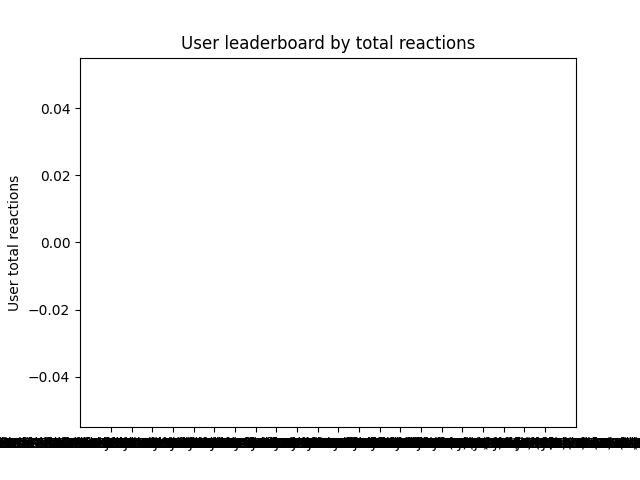
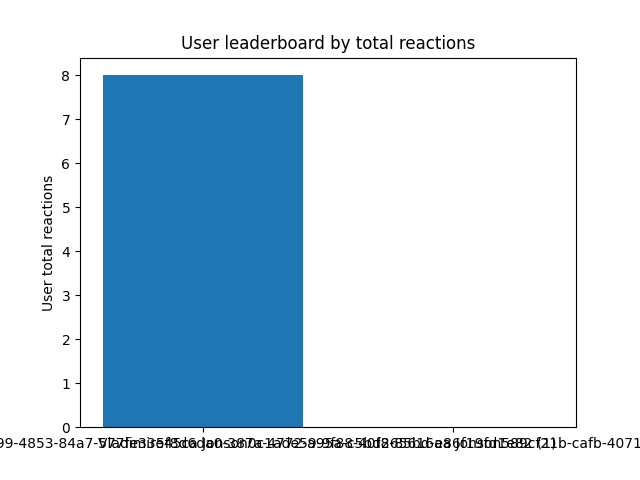
fix bugs; bind recursive deleting user reactions and user_posts with deleting user; remove html parts with "STATUS"

diff --git a/app/templates/get_user.html b/app/templates/get_user.html
@@ -20,10 +20,8 @@
             REACTION: {{ reaction.reaction }}
           </div>
         {% endfor %}
-        STATUS: {{ "none" }} <span style="color: grey"> useless. remove it in templates/get_user </span> <br>
       </div>
       <br>
     {% endfor %}
-    STATUS: {{ "none" }} <span style="color: grey"> useless. remove it in templates/get_user </span>  <br>
   </body>
 {% endblock %}

diff --git a/app/templates/get_post.html b/app/templates/get_post.html
@@ -15,7 +15,6 @@
                 REACTION: {{ reaction.reaction }}
             </div>
         {% endfor %}
-        STATUS: {{ "none" }} <span style="color: grey"> useless. remove it in templates/get_post </span> <br> <br>
         <a href="{{url_for('front_reaction_create', user_id=user.id, post_id=post.id)}}" class="btn btn-primary">Поставить реакцию</a>
 
     </body>

diff --git a/models/user.py b/models/user.py
@@ -6,6 +6,7 @@ from sqlalchemy import desc as reverse
 
 from .db import db
 from .post import Post
+from .reaction import Reaction
 
 
 class User(db.Model):
@@ -15,7 +16,6 @@ class User(db.Model):
     first_name = db.Column(db.String)
     last_name = db.Column(db.String)
     email = db.Column(db.String)
-    total_reactions = db.Column(db.Integer, default=0)
 
     def json(self):
         return {
@@ -25,6 +25,10 @@ class User(db.Model):
             "email": self.email,
             "total_reactions": self.total_reactions
         }
+    
+    @property
+    def total_reactions(self):
+        return len(Reaction.get_by_user_id(self.id))
 
     @staticmethod
     def is_valid_email(email: str) -> bool:
@@ -62,14 +66,6 @@ class User(db.Model):
         else:
             return cls.query.order_by(reverse(cls.total_reactions)).all()
 
-    def total_reactions_inc(self) -> None:
-        """
-        Increments the total number of reactions by 1 if it exists, otherwise sets it to 1.
-        """
-        if not self.total_reactions:
-            self.total_reactions = 1
-        else:
-            self.total_reactions += 1
     
     def posts(self) -> List[Post]:
         """
@@ -93,5 +89,11 @@ class User(db.Model):
         """
         Delete the current object from the database session.
         """
+        for post in self.posts():
+            post.delete()
+
+        for reaction in Reaction.get_by_user_id(self.id):
+            reaction.delete()
+
         db.session.delete(self)
         db.session.commit()

diff --git a/app/tests/test_posts.py b/app/tests/test_posts.py
@@ -9,8 +9,7 @@ def create_user_payload():
     return {
         "first_name": "Vladimir" + str(uuid4()),
         "last_name": "Jonson" + str(uuid4()),
-        "email": "test@test.ru",
-        "status": "created",
+        "email": "test@test.ru"
     }
 
 
@@ -58,4 +57,3 @@ def test_post_create():
     assert delete_user_response.json()["first_name"] == user_payload["first_name"]
     assert delete_user_response.json()["last_name"] == user_payload["last_name"]
     assert delete_user_response.json()["email"] == user_payload["email"]
-    assert delete_user_response.json()["status"] != user_payload["status"]

diff --git a/app/views.py b/app/views.py
@@ -122,15 +122,10 @@ def reaction(author_id, post_id):
     data = request.get_json()
 
     user = User.get_by_id(data["user_id"])
-    if user is None:
-        return Response(status=HTTPStatus.NOT_FOUND)
-
-    author = User.get_by_id(author_id)
-    if author is None:
-        return Response(status=HTTPStatus.NOT_FOUND)
-    
     post = Post.get_by_id(post_id)
-    if post is None:
+    author = User.get_by_id(author_id)
+    
+    if user is None or post is None or author is None:
         return Response(status=HTTPStatus.NOT_FOUND)
 
     user_reaction = data["reaction"]

diff --git a/models/post.py b/models/post.py
@@ -71,5 +71,8 @@ class Post(db.Model):
         """
         Delete the current object from the database session.
         """
+        for reaction in self.get_reactions():
+            reaction.delete()
+        
         db.session.delete(self)
         db.session.commit()

diff --git a/run.py b/run.py
@@ -4,6 +4,7 @@ from models import db
 
 app.config["SQLALCHEMY_TRACK_MODIFICATIONS"] = False
 app.config["SQLALCHEMY_DATABASE_URI"] = "sqlite:///database.db"
+app.config["PROPOGATE_EXCEPTIONS"] = True
 
 with app.app_context():
     db.init_app(app)

diff --git a/models/reaction.py b/models/reaction.py
@@ -95,3 +95,7 @@ class Reaction(db.Model):
         """
         db.session.add(self)
         db.session.commit()
+
+    def delete(self):
+        db.session.delete(self)
+        db.session.commit()

diff --git a/app/__init__.py b/app/__init__.py
@@ -5,4 +5,4 @@ app.config["SECRET_KEY"] = "helloworld"
 
 USERS = []
 
-from app import views, models, tests, forms
+from app import views, tests, forms
